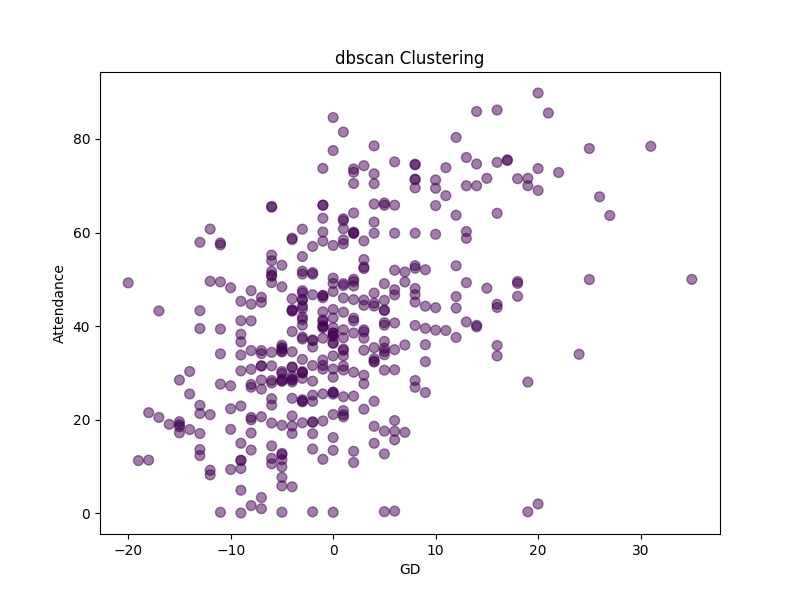
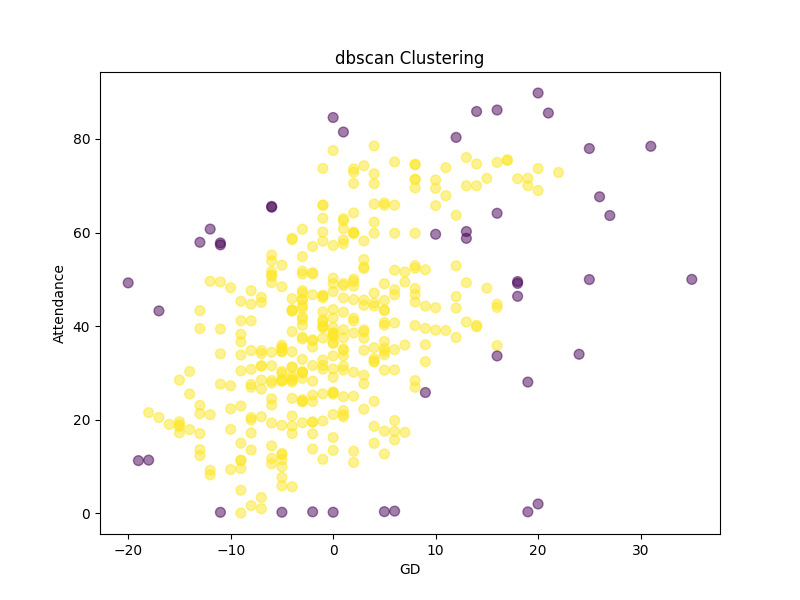
Ajustando los parametros de dbscan obtenemos una clusterizacion diferente

Changed region(s): [[0.1875, 0.24, 0.7188, 0.87]]

diff --git a/Clusters/DensityClustering/DensityCluster.py b/Clusters/DensityClustering/DensityCluster.py
@@ -14,7 +14,7 @@ class DensityCluster(CentroidCluster):
     def fit_model(self, features):
         self.X = self.df[features]
         if self.cluster_type == 'dbscan':
-            model = DBSCAN(eps=0.3, min_samples=10)
+            model = DBSCAN(eps=5, min_samples=10)
         elif self.cluster_type == 'optics':
             model = OPTICS(min_samples=10, xi=0.05, min_cluster_size=0.05)
         elif self.cluster_type == 'hdbscan':
@@ -31,6 +31,9 @@ class DensityCluster(CentroidCluster):
         plt.xlabel(self.X.columns[0])
         plt.ylabel(self.X.columns[1])
         plt.title(f'{self.cluster_type} Clustering')
-        if not os.path.exists(f'Clusters/DensityClustering/img/{self.cluster_type}'):
-            os.makedirs(f'Clusters/DensityClustering/img/{self.cluster_type}')
-        plt.savefig(f'Clusters/DensityClustering/img/{self.cluster_type}/{self.cluster_type}-{self.X.columns[0]}-{self.X.columns[1]}.png')    
+        try:
+            if not os.path.exists(f'Clusters/DensityClustering/img/{self.cluster_type}'):
+                os.makedirs(f'Clusters/DensityClustering/img/{self.cluster_type}')
+            plt.savefig(f'Clusters/DensityClustering/img/{self.cluster_type}/{self.cluster_type}-{self.X.columns[0]}-{self.X.columns[1]}.png')    
+        except:
+            print('Error al guardar la imagen')

diff --git a/main.py b/main.py
@@ -7,5 +7,5 @@ if __name__ == '__main__':
     #lanzador.lanzar_mean_shift()
     #lanzador.lanzar_minibatch()
     lanzador.lanzar_dbscan()
-    lanzador.lanzar_optics()
-    lanzador.lanzar_hdbscan()
+    #lanzador.lanzar_optics()
+    #lanzador.lanzar_hdbscan()
